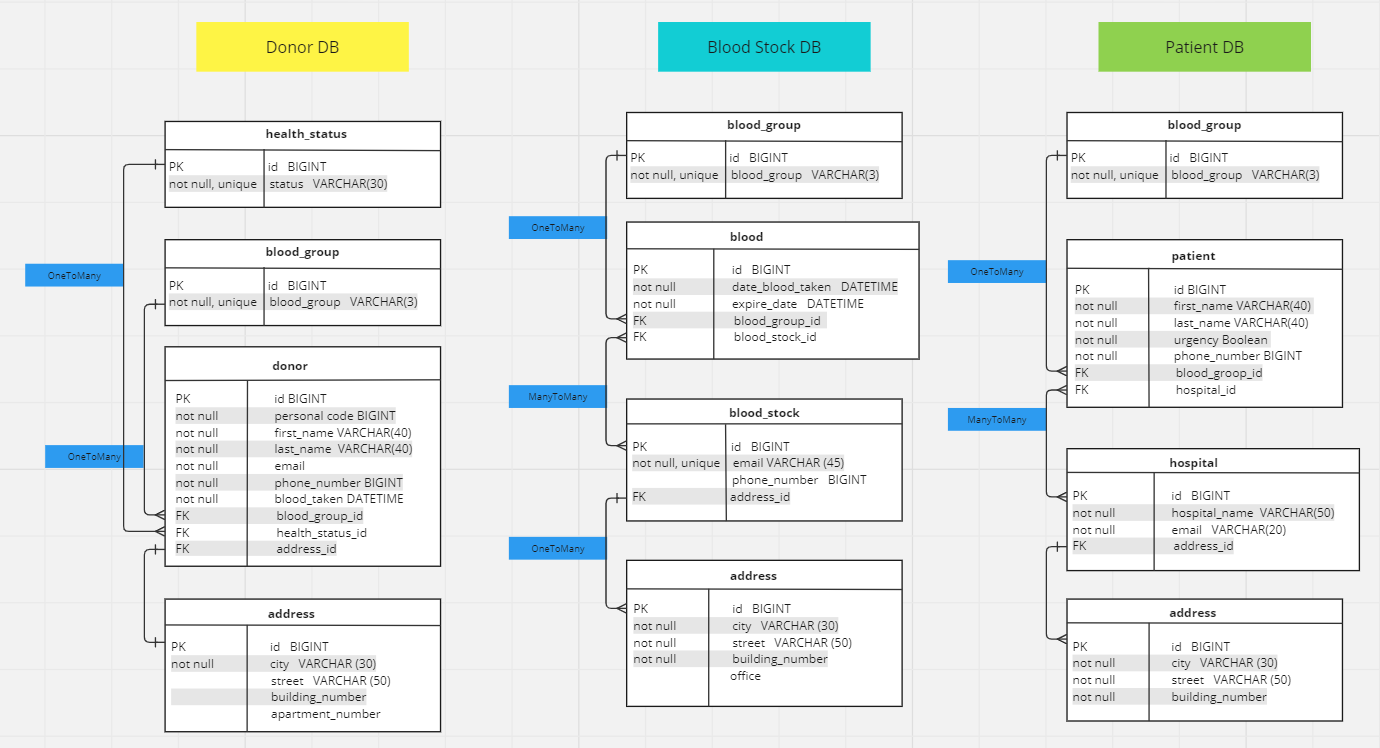
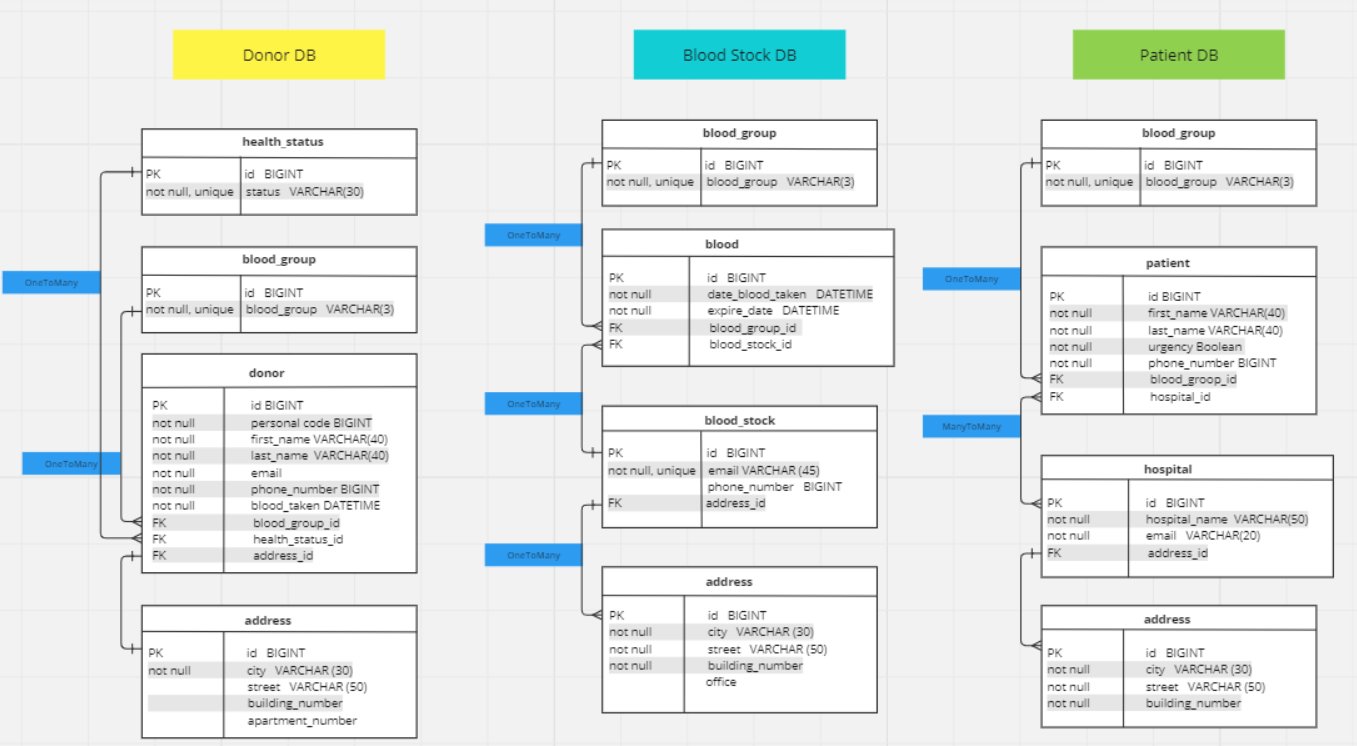
changed relation from @ManyToMany to @OneToMany between BloodInfoEntity and BloodStorageEntity

diff --git a/src/main/java/com/blood_stock_server/business/mappers/BloodInfoMapper.java b/src/main/java/com/blood_stock_server/business/mappers/BloodInfoMapper.java
@@ -6,11 +6,6 @@ import com.blood_stock_server.business.repository.model.BloodStorageEntity;
 import com.blood_stock_server.model.BloodInfo;
 import org.mapstruct.Mapper;
 
-import java.util.ArrayList;
-import java.util.List;
-
-import static org.apache.commons.collections.CollectionUtils.isNotEmpty;
-
 @Mapper(componentModel = "spring", uses = {
 //        DateTimeMapStructMapper.class,
         BloodGroupMapper.class,
@@ -28,26 +23,24 @@ public interface BloodInfoMapper {
         return new BloodGroupEntity(bloodGroupId);
     }
 
-    default Long bloodGroupIdToBloodGroup(BloodGroupEntity bloodGroupEntity) {
+    default Long bloodGroupEntityToBloodGroupId(BloodGroupEntity bloodGroupEntity) {
         if (bloodGroupEntity == null) {
             return null;
         }
         return bloodGroupEntity.getId();
     }
 
-    default List<BloodStorageEntity> bloodStorageEntityTpBloodStorageIds(List<Long> bloodStorageIds) {
-        List<BloodStorageEntity> BloodStorageEntities = new ArrayList<>();
-        if (isNotEmpty(bloodStorageIds)) {
-            bloodStorageIds.forEach(bloodStorageId -> BloodStorageEntities.add(new BloodStorageEntity(bloodStorageId)));
+    default BloodStorageEntity bloodStorageIdToBloodStorageEntity(Long bloodStorageId) {
+        if (bloodStorageId == null) {
+            return null;
         }
-        return BloodStorageEntities;
+        return new BloodStorageEntity(bloodStorageId);
     }
 
-    default List<Long> bloodStorageIdsToBloodStorageEntity(List<BloodStorageEntity> BloodStorageEntities) {
-        List<Long> BloodStorageIds = new ArrayList<>();
-        if (isNotEmpty(BloodStorageEntities)) {
-            BloodStorageEntities.forEach(bloodStorageEntity -> BloodStorageIds.add(bloodStorageEntity.getId()));
+    default Long bloodStorageEntityIdToBloodStorageId(BloodStorageEntity bloodStorageEntity) {
+        if (bloodStorageEntity == null) {
+            return null;
         }
-        return BloodStorageIds;
+        return bloodStorageEntity.getId();
     }
 }

diff --git a/src/main/java/com/blood_stock_server/business/repository/model/BloodInfoEntity.java b/src/main/java/com/blood_stock_server/business/repository/model/BloodInfoEntity.java
@@ -7,8 +7,6 @@ import javax.persistence.GeneratedValue;
 import javax.persistence.GenerationType;
 import javax.persistence.Id;
 import javax.persistence.JoinColumn;
-import javax.persistence.JoinTable;
-import javax.persistence.ManyToMany;
 import javax.persistence.ManyToOne;
 import javax.persistence.Table;
 
@@ -17,7 +15,6 @@ import lombok.Data;
 import lombok.NoArgsConstructor;
 
 import java.time.LocalDate;
-import java.util.List;
 
 @Data
 @NoArgsConstructor
@@ -36,12 +33,9 @@ public class BloodInfoEntity {
     @ManyToOne(fetch = FetchType.LAZY)
     @JoinColumn(name = "blood_group_id")
     private BloodGroupEntity bloodGroupId;
-    @ManyToMany
-    @JoinTable(
-            name = "blood_stock",
-            joinColumns = @JoinColumn(name = "blood_storage_id"),
-            inverseJoinColumns = @JoinColumn(name = "blood_info_id"))
-    private List<BloodStorageEntity> bloodStorageIds;
+    @ManyToOne(fetch = FetchType.LAZY)
+    @JoinColumn(name = "blood_storage_id")
+    private BloodStorageEntity bloodStorageId;
 
     public BloodInfoEntity(Long id) {
         this.id = id;

diff --git a/src/main/java/com/blood_stock_server/business/repository/model/BloodStorageEntity.java b/src/main/java/com/blood_stock_server/business/repository/model/BloodStorageEntity.java
@@ -10,7 +10,6 @@ import javax.persistence.FetchType;
 import javax.persistence.GeneratedValue;
 import javax.persistence.GenerationType;
 import javax.persistence.Id;
-import javax.persistence.ManyToMany;
 import javax.persistence.OneToMany;
 import javax.persistence.Table;
 import java.util.List;
@@ -31,7 +30,7 @@ public class BloodStorageEntity {
     private String phoneNumber;
     @OneToMany(mappedBy = "id", fetch = FetchType.LAZY)
     private List<AddressEntity> addressIds;
-    @ManyToMany(mappedBy = "bloodStorageIds")
+    @OneToMany(mappedBy = "bloodStorageId", fetch = FetchType.LAZY)
     private List<BloodInfoEntity> bloodInfoIds;
 
     public BloodStorageEntity(Long id) {
